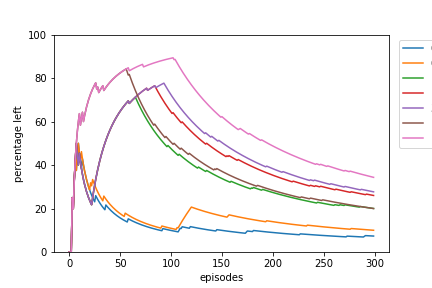
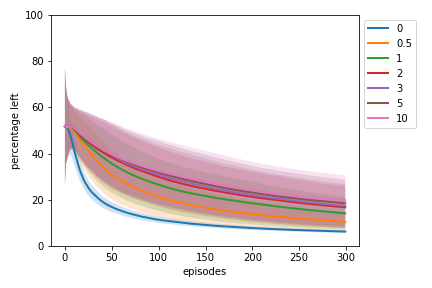
added stds to graph

diff --git a/mdp.py b/mdp.py
@@ -2,6 +2,7 @@
 
 import numpy as np
 import matplotlib.pyplot as plt
+from tqdm import tqdm
 
 # %%
 # Initial Values
@@ -123,7 +124,7 @@ def single_experiment(possible_actions, episodes, std=1, doubleQ=False):
         learner = SingleQ(initial_Q(possible_actions))
 
     left_count = 0
-    left_counts = []
+    left_freq = []
 
     # number of states visited
     ns = [0 for _ in range(len(possible_actions))]
@@ -162,9 +163,9 @@ def single_experiment(possible_actions, episodes, std=1, doubleQ=False):
 
             state = next_state
 
-        left_counts.append(left_count)
+        left_freq.append(left_count/i)
 
-    return left_counts
+    return left_freq
 
 
 # %%
@@ -173,19 +174,22 @@ def experiment(num_experiments=500, episodes=300, num_random_actions=5, std=1, d
     final_count = [0 for i in range(episodes)]
     final_res = [0 for i in range(episodes)]
 
+    final_freq = []
+
     possible_actions = [[0, 1], list(range(num_random_actions)), [0], [0]]
 
-    for i in range(num_experiments):
+    for i in tqdm(range(num_experiments)):
         np.random.seed(i)
 
-        current_count = single_experiment(
+        current_freq = single_experiment(
             possible_actions, episodes, std, doubleQ)
 
-        for e in range(episodes):
-            final_count[e] = (final_count[e] * i + current_count[e]) / (i+1)
-            final_res[e] = final_count[e] / (e+1) * 100
+        final_freq.append(current_freq)
+        # for e in range(episodes):
+        #     final_count[e] = (final_count[e] * i + current_count[e]) / (i+1)
+        #     final_res[e] = final_count[e] / (e+1) * 100
 
-    return final_res
+    return 100 * np.array(final_freq)
 
 
 num_random_actions = 5
@@ -194,25 +198,52 @@ single_res = experiment(num_random_actions=num_random_actions, std=std)
 double_res = experiment(
     num_random_actions=num_random_actions, std=std, doubleQ=True)
 
-plt.plot(range(len(single_res)), single_res, label="single")
-plt.plot(range(len(double_res)), double_res, label="double")
+
+# %%
+
+m = single_res.mean(axis=0)
+s = single_res.std(axis=0)
+
+plt.plot(range(len(single_res[0])), m, label="single")
+plt.fill_between(range(len(single_res[0])), m-s, m+s, alpha=0.25)
+
+m = double_res.mean(axis=0)
+s = double_res.std(axis=0)
+plt.plot(range(len(double_res[0])), m, label="double")
+plt.fill_between(range(len(single_res[0])), m-s, m+s, alpha=0.25)
+
 plt.legend()
 plt.xlabel("episodes")
 plt.ylabel("percentage left")
 
 # %%
 
-# variables to change: std, number of actions
-
+################################################################################
 # Experiment 1: number of actions
-
+################################################################################
 # single
 
-for n in [1, 3, 5, 10, 20, 50, 100]:
+means = []
+stds = []
 
-    res = experiment(num_random_actions=n)
+tests = [1, 3, 5, 10, 20, 50, 100]
+for n in tests:
 
-    plt.plot(range(len(res)), res, label=n)
+    r = experiment(num_random_actions=n)
+    m = r.mean(axis=0)
+    s = r.std(axis=0)
+    means.append(m)
+    stds.append(s)
+
+
+# %%
+
+for i in range(len(means)):
+    m = means[i]
+    s = stds[i]/2
+
+    plt.plot(range(len(m)), m, label=tests[i], linewidth=2)
+    plt.fill_between(range(len(m)), m-s, m+s, alpha=0.2)
 
 plt.xlabel("episodes")
 plt.ylabel("percentage left")
@@ -224,39 +255,72 @@ plt.savefig("Results/actions_single.png")
 plt.show()
 
 # %%
+################################################################################
+# Experiment 1: number of actions
+################################################################################
+
 # double
 
-for n in [1, 3, 5, 10, 20, 50, 100]:
+means = []
+stds = []
 
-    res = experiment(num_random_actions=n, doubleQ=True)
+tests = [1, 3, 5, 10, 20, 50, 100]
+for n in tests:
 
-    plt.plot(range(len(res)), res, label=n)
+    r = experiment(num_random_actions=n, doubleQ=True)
+    m = r.mean(axis=0)
+    s = r.std(axis=0)
+    means.append(m)
+    stds.append(s)
 
-plt.legend()
+# %%
+
+for i in range(len(means)):
+    m = means[i]
+    s = stds[i]/2
+
+    plt.plot(range(len(m)), m, label=tests[i], linewidth=2)
+    plt.fill_between(range(len(m)), m-s, m+s, alpha=0.2)
+
 plt.xlabel("episodes")
 plt.ylabel("percentage left")
-
 plt.ylim([0, 100])
 plt.legend(bbox_to_anchor=(1.2, 1.0))
 plt.tight_layout()
 
 plt.savefig("Results/actions_double.png")
 plt.show()
+
 # %%
 
-# variables to change: std, number of actions
-
+################################################################################
 # Experiment 2: std
+################################################################################
+
 
 # single
 
-for s in [0, 0.5, 1, 2, 3, 5, 10]:
+means = []
+stds = []
 
-    res = experiment(std=s)
+tests = [0, 0.5, 1, 2, 3, 5, 10]
+for n in tests:
 
-    plt.plot(range(len(res)), res, label=s)
+    r = experiment(std=n)
+    m = r.mean(axis=0)
+    s = r.std(axis=0)
+    means.append(m)
+    stds.append(s)
+# %%
 
-plt.legend()
+
+for i in range(len(means)):
+    m = means[i]
+    s = stds[i]/2
+
+    plt.plot(range(len(m)), m, label=tests[i], linewidth=2)
+    plt.fill_between(range(len(m)), m-s, m+s, alpha=0.2)
+
 plt.xlabel("episodes")
 plt.ylabel("percentage left")
 plt.ylim([0, 100])
@@ -265,21 +329,36 @@ plt.tight_layout()
 
 plt.savefig("Results/std_single.png")
 plt.show()
+
 # %%
-
-# variables to change: std, number of actions
-
+################################################################################
 # Experiment 2: std
+################################################################################
+
 
 # double
 
-for s in [0, 0.5, 1, 2, 3, 5, 10]:
 
-    res = experiment(std=s, doubleQ=True)
+means = []
+stds = []
 
-    plt.plot(range(len(res)), res, label=s)
+tests = [0, 0.5, 1, 2, 3, 5, 10]
+for n in tests:
 
-plt.legend()
+    r = experiment(std=n, doubleQ=True)
+    m = r.mean(axis=0)
+    s = r.std(axis=0)
+    means.append(m)
+    stds.append(s)
+# %%
+
+for i in range(len(means)):
+    m = means[i]
+    s = stds[i]/2
+
+    plt.plot(range(len(m)), m, label=tests[i], linewidth=2)
+    plt.fill_between(range(len(m)), m-s, m+s, alpha=0.2)
+
 plt.xlabel("episodes")
 plt.ylabel("percentage left")
 plt.ylim([0, 100])
@@ -288,6 +367,7 @@ plt.tight_layout()
 
 plt.savefig("Results/std_double.png")
 plt.show()
+
 # %%
 
 # Image David

diff --git a/roulette.py b/roulette.py
@@ -210,12 +210,13 @@ def experiment(num_experiments=500, episodes=300, std=1, doubleQ=False):
             final_res[e] = final_count[e] / (e+1) * 100
 
             final_t[e] = (final_t[e] * i + current_t[e]) / (i+1)
+
     total_average_q = np.mean(np.array(total_average_q), axis=0)
     return final_res, final_t, total_average_q
 
 
 num_experiments = 20
-episodes = 100
+episodes = 10
 single_res, single_t, single_average_q = experiment(
     episodes=episodes, num_experiments=num_experiments)
 double_res, double_t, double_average_q = experiment(
@@ -223,6 +224,10 @@ double_res, double_t, double_average_q = experiment(
 
 plt.plot(range(len(single_res)), single_average_q, label="single")
 plt.plot(range(len(double_res)), double_average_q, label="double")
-plt.legend()
+
+plt.legend(bbox_to_anchor=(1.3, 1.0))
+plt.tight_layout()
 plt.xlabel("episodes")
 plt.ylabel("expected profit")
+
+# %%
